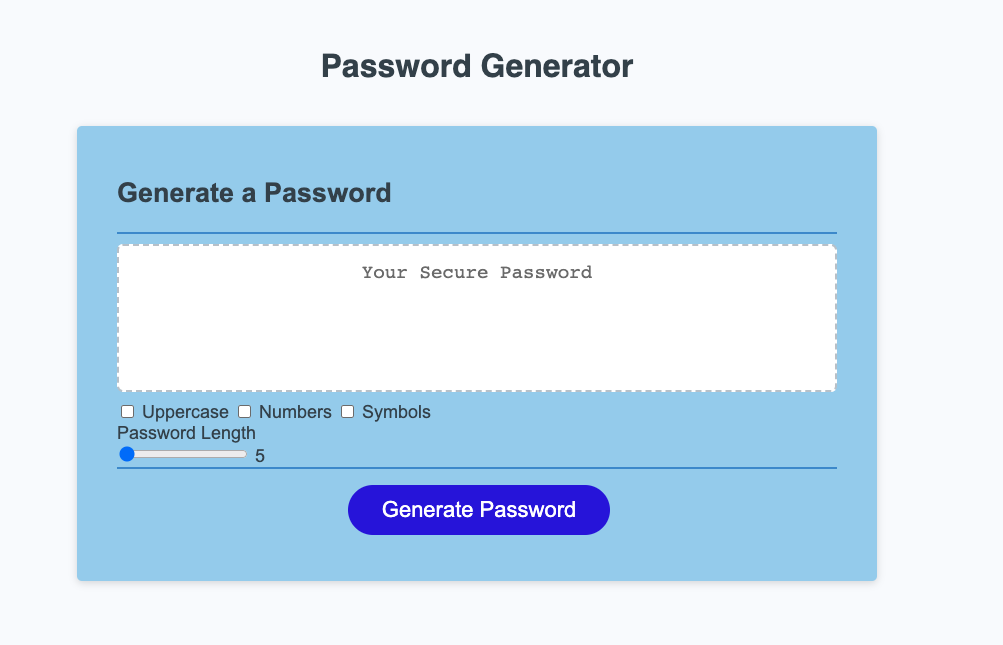
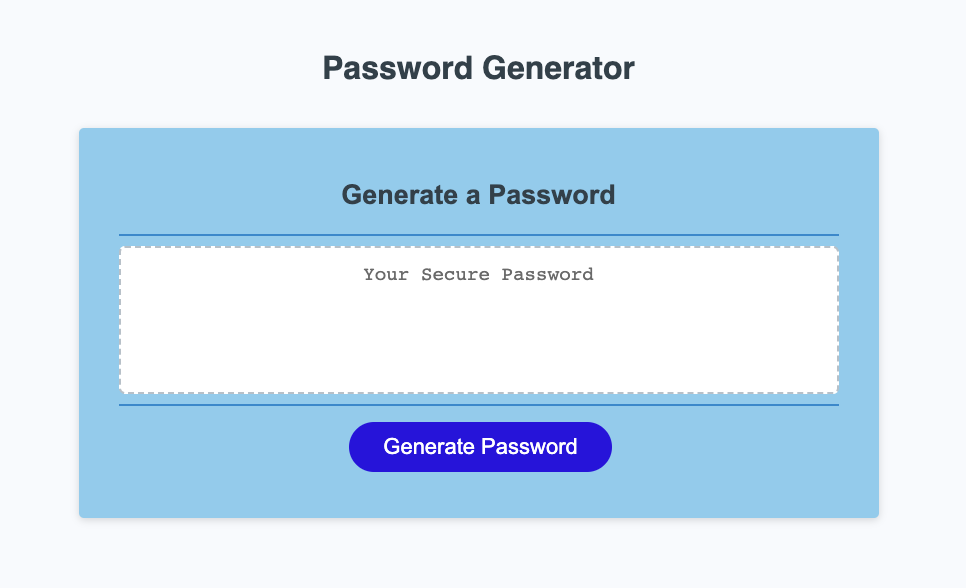
updated generate password function again; updated application screenshots in the readme file

Changed region(s): [[0.0621, 0.1837, 0.9317, 0.9184], [0.3106, 0.0612, 0.6522, 0.1531]]

diff --git a/Develop/script.js b/Develop/script.js
@@ -37,7 +37,7 @@ function generatePassword(options) {
   let passwordChars = [];
 // if statements for options
 if (options.useSpecial) {
-  passwordChars = [...passwordChars, ...specialChararacters];
+  passwordChars = [...passwordChars, ...specialCharacters];
 }
 
 if (options.useNum) {
@@ -56,8 +56,8 @@ if (passwordChars.length === 0) {
   return "";
 }
 for (let i = 0; i < options.charCount; i++) {
-  var randomNumber = Math.floor(Math.random() * passwordChars.length) +1;
-  password = passwordChars.substring(randomNumber, randomNumber);
+  const randomIndex = Math.floor(Math.random() * passwordChars.length);
+  password = '${password}${passwordChars[randomIndex]}';
  }
  console.log(password)
  return password;

diff --git a/Develop/index.html b/Develop/index.html
@@ -8,7 +8,7 @@
     <link rel="stylesheet" href="style.css" />
   </head>
   <body>
-    <div class="wrapper">
+    <center><div class="wrapper">
       <header>
         <h1>Password Generator</h1>
       </header>
@@ -48,6 +48,7 @@
         </div>
       </div>
     </div>
+  </center>
     <script src="script.js"></script>
   </body>
 </html>

diff --git a/Develop/style.css b/Develop/style.css
@@ -57,8 +57,6 @@ header {
 
 .card-footer {
   text-align: center;
-  display: block;
-  width: 100%;
 }
 
 .card-footer::before {

diff --git a/README.md b/README.md
@@ -31,6 +31,5 @@ THEN the password is either displayed in an alert or written to the page
 # Application Screenshots
 Application
 ![Application](assets/password-generator.png)
-
-Password Error Message
-![Error Message](assets/password-error-message.png)
+Password Prompt Example
+![UserPrompt](assets/password-user-prompt.png)
